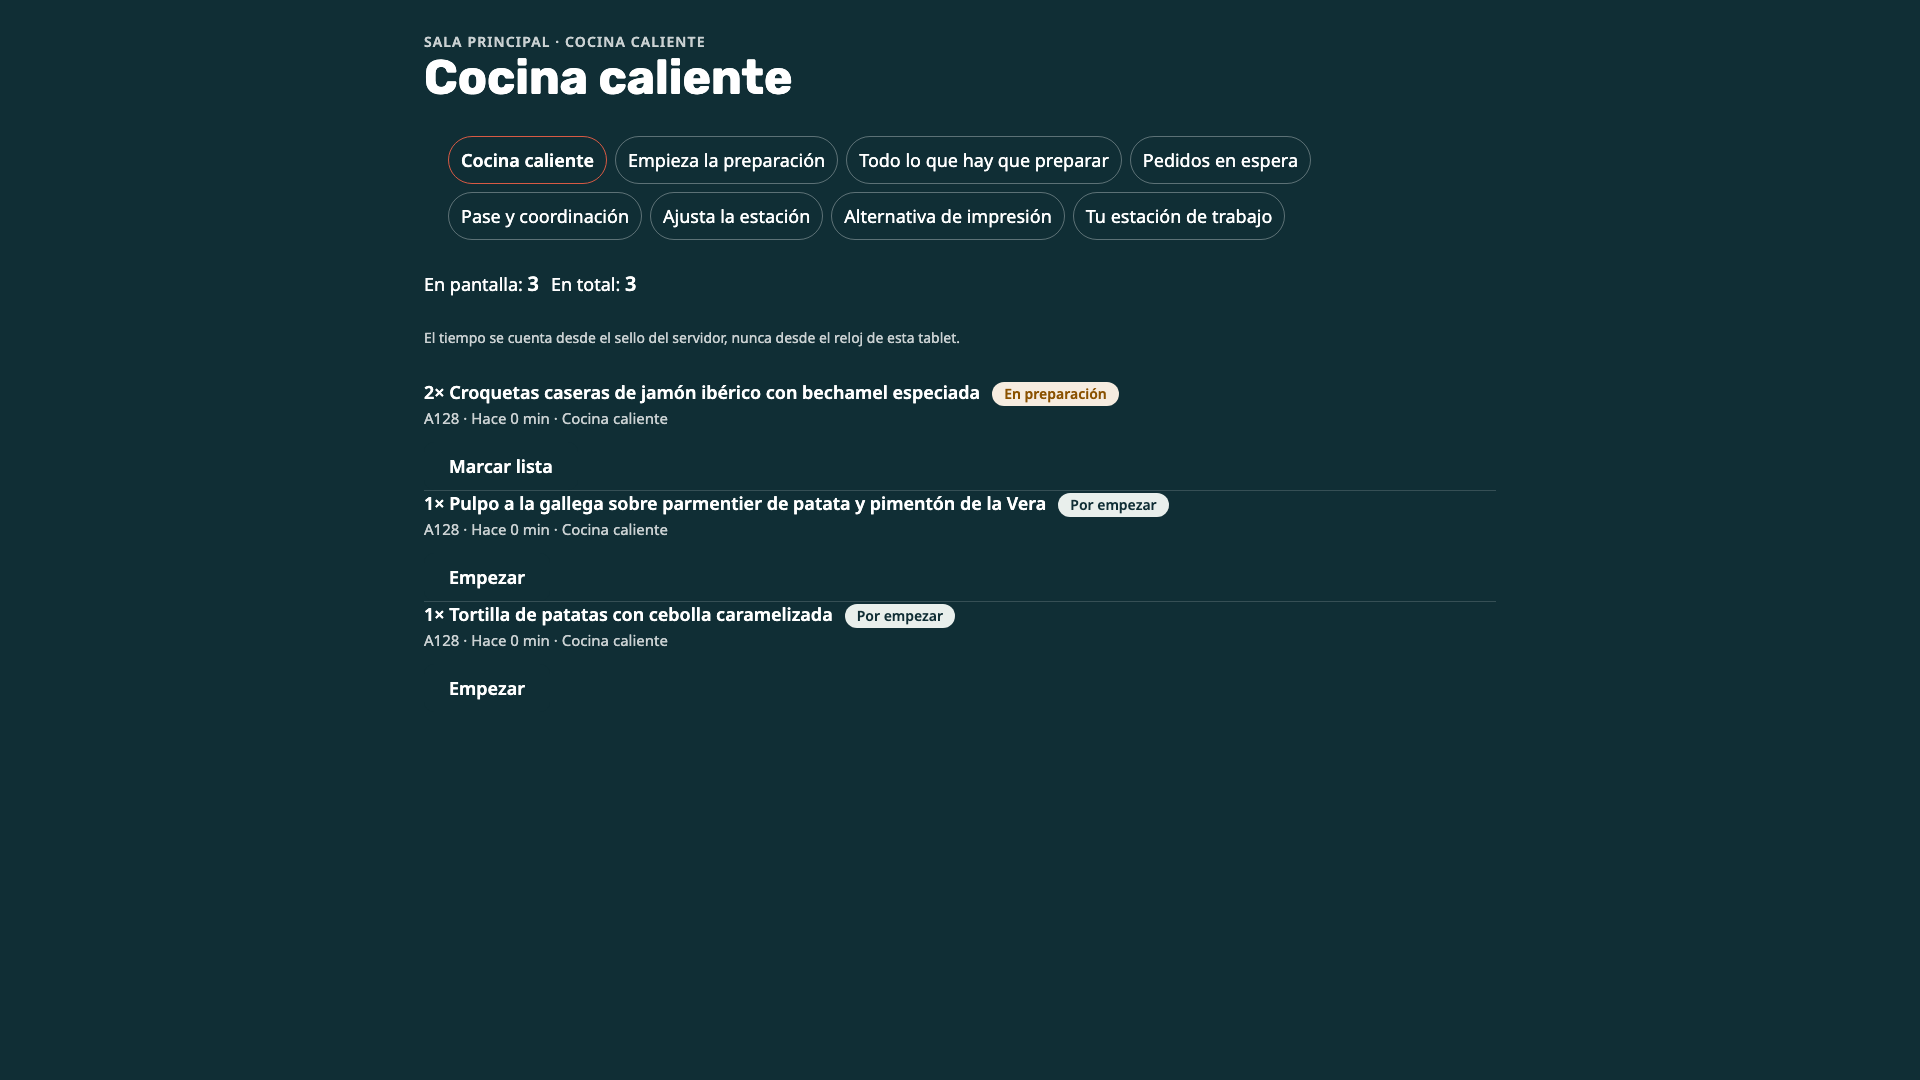
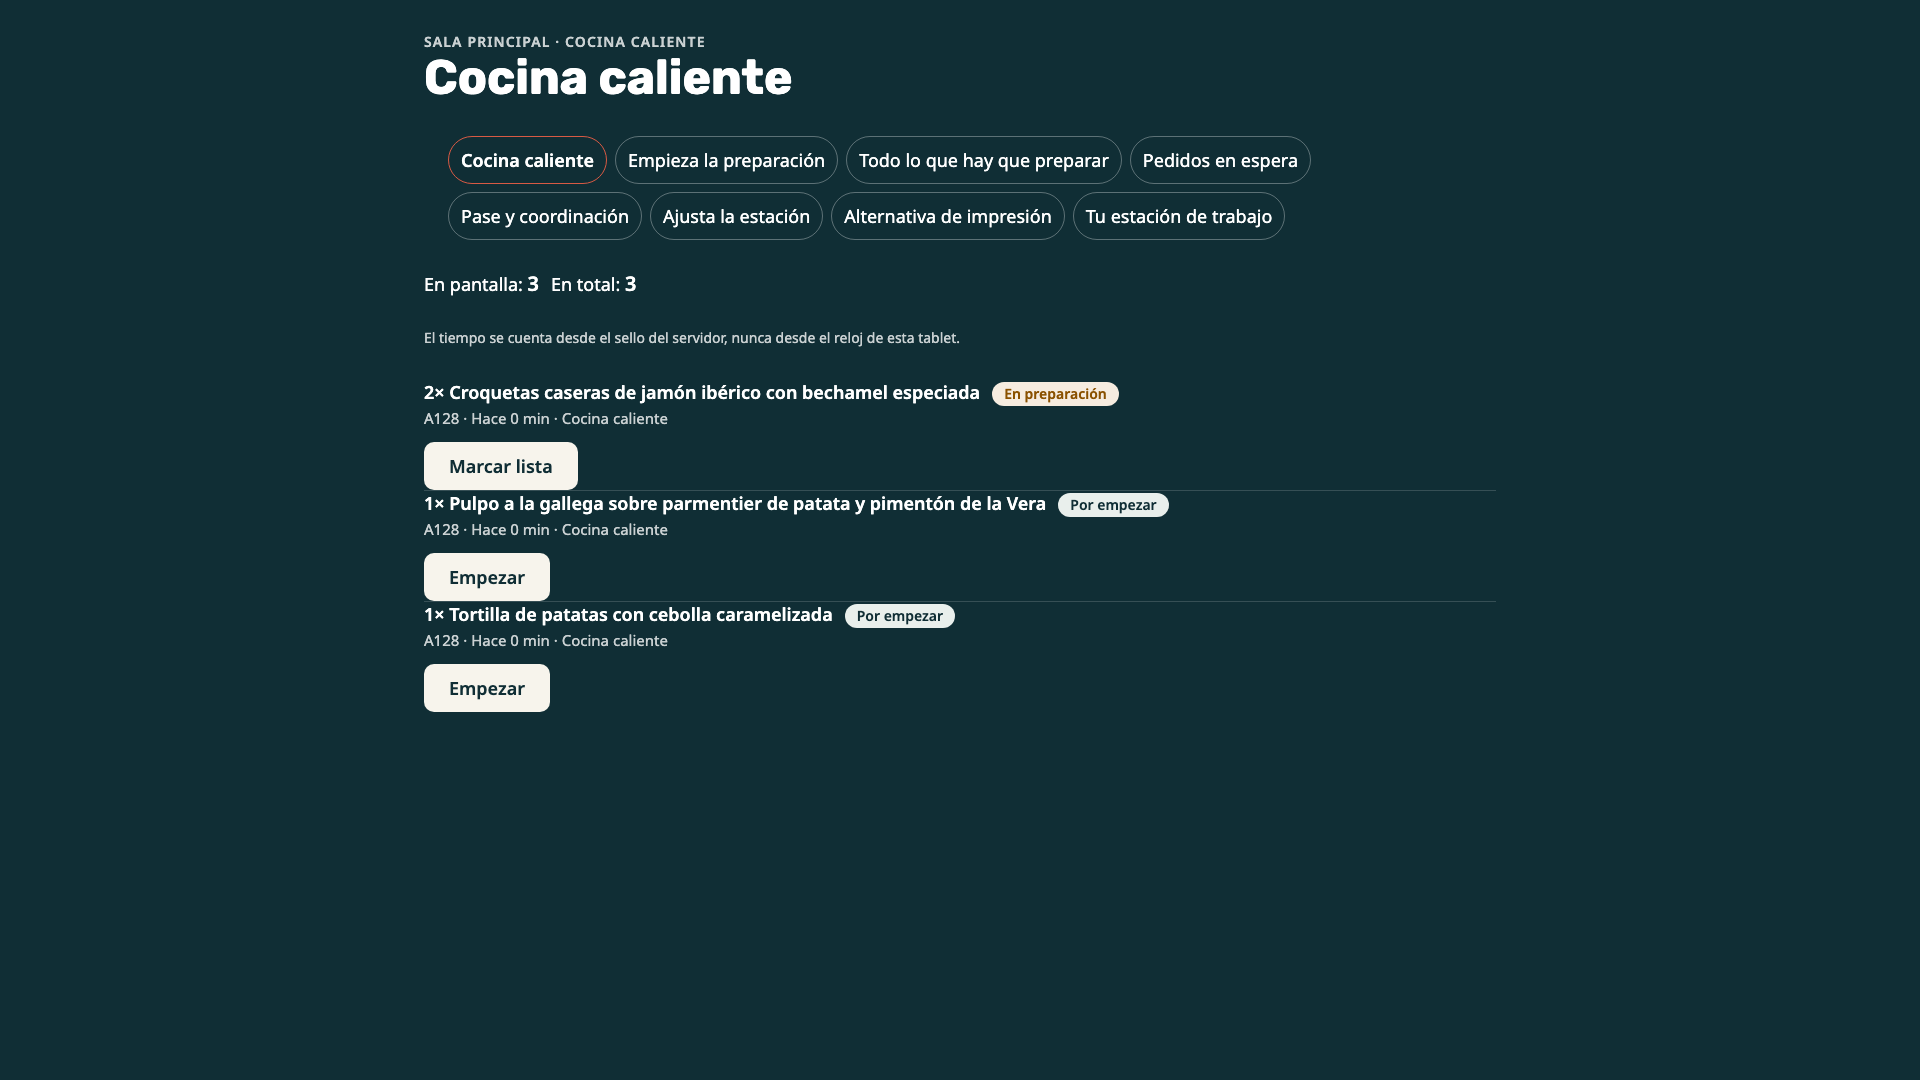
Auditoria (2): o botao invisivel do KDS, curado pela DOENCA e nao pelo sintoma
`--bo-primaria` e `--bo-superficie-inversa` sao ambas #102E35: o botao primario
dentro do `.bo-kds` tinha a cor do fundo. 1.00:1, na accao mais repetida da
cozinha.

## A doenca: o componente nao sabe em que superficie esta

Foi a terceira vez. As duas anteriores estao documentadas em 39 linhas de
`.bo-kds .x { … }` — uma lista de pares componente×superficie que cresce com
cada componente novo e que so se escreve DEPOIS de alguem dar pelo defeito. A
lista nao previne; regista.

A cura e a inversao: um CONTRATO DA SUPERFICIE. Em vez de o componente adivinhar
onde esta, a superficie DECLARA o que promete a quem for desenhado nela —
`--bo-accao`, `--bo-sobre-accao`, `--bo-sobre-superficie`. O componente pede o
PAPEL e recebe o valor certo por heranca, sem saber de superficies. Uma
superficie nova define os tres e ganha os componentes todos; um componente novo
pede os tres e ganha as superficies todas.

E a accao em fundo escuro fica CLARA e nao lima: o lima e o sinal de estado do
pedido, e um botao lima disputava atencao com ele — que e o que o manual proibe,
e e o assunto da tarefa (3).

  KDS antes:  fundo do botao #102E35 sobre #102E35 = 1.00:1
  KDS agora:  #F7F4EC sobre #102E35 = 13.05:1
  painel:     14.34:1, intacto

## E uma guarda, porque a lista nao previne

`scripts/validar-superficies.sh`: mede o RESULTADO em cada superficie — o que
esta desenhado distingue-se do que esta por tras? Quatro superficies, duas
escuras.
[…]

Changed region(s): [[0.2188, 0.4889, 0.3125, 0.5806], [0.2188, 0.3972, 0.3125, 0.4583], [0.2188, 0.6111, 0.3125, 0.6722]]

diff --git a/inspeccao/superficies.spec.ts b/inspeccao/superficies.spec.ts
@@ -1,0 +1,171 @@
+import { expect, test } from '@playwright/test';
+import { resolverAlvos } from './alvos.ts';
+
+/**
+ * Um componente claro dentro de uma superfície escura desaparece.
+ *
+ * ── A doença, três vezes ──────────────────────────────────────────────────
+ *
+ * 1.00:1 no E07, com um `var()` inexistente a pintar #102E35 sobre #102E35.
+ * 1.00:1 nas peças claras dentro do `.bo-kds`. E 1.00:1 no botão primário, que
+ * é a acção mais repetida da cozinha — `--bo-primaria` e
+ * `--bo-superficie-inversa` são a MESMA cor.
+ *
+ * As duas primeiras foram curadas com 39 linhas de `.bo-kds .x { … }`: uma lista
+ * de pares componente×superfície, escrita sempre DEPOIS de alguém dar pelo
+ * defeito. A terceira apareceu na mesma, porque a lista não previne — regista.
+ *
+ * ── O que esta prova mede ─────────────────────────────────────────────────
+ *
+ * Não mede classes. Mede o RESULTADO em cada superfície: o que está desenhado
+ * distingue-se do que está por trás? Um rácio de exactamente 1,00 quase nunca é
+ * uma medição — é uma cor consigo própria, e é a assinatura desta família.
+ */
+
+const MINIMO_TEXTO = 4.5; // WCAG 1.4.3
+const MINIMO_CAIXA = 3;   // WCAG 1.4.11, componentes
+
+/**
+ * Os contornos fracos já conhecidos. Tecto que só desce à mão.
+ *
+ * Esta prova encontrou uma quarta aparição da família, e maior do que a que me
+ * foi apontada: NOVE controlos cujo contorno não delimita. Os campos têm
+ * `--bo-borda: #D7DEDA`, que dá **1,29:1** contra o fundo da página onde a
+ * 1.4.11 pede 3:1; e o botão secundário tem preenchimento a **1,17:1** com
+ * `border: 1px solid transparent`. É defeito verdadeiro, escrito como
+ * RV100-025.
+ *
+ * Não o curo aqui e a razão importa: mudar `--bo-borda` muda TODOS os campos do
+ * produto, e um token de desenho global não é meu para decidir — foi-me pedido
+ * o botão do KDS. Fica contado, com o número certo, para não passar por
+ * ausência. Se aparecer um quinto, o tecto acende.
+ */
+const TECTO_CONTORNOS_FRACOS = 9;
+
+/** Os controlos cujo contorno já se sabe fraco: campos e botão secundário. */
+const CONTORNO_JA_CONHECIDO = /bo-campo__controlo|bo-botao--secundario|bo-botao bo-botao--s/;
+
+test.describe('Superfícies: nada desaparece dentro do seu fundo', () => {
+  test('texto e controlos distinguem-se do que está por trás', async ({ page }) => {
+    test.setTimeout(600_000);
+    const a = await resolverAlvos();
+    await page.setViewportSize({ width: 1440, height: 900 });
+
+    const superficies = [
+      { id: 'KDS-estacao', url: `/es-ES/kds/${a.unidadeDoStaff}/${a.estacaoDeProducao}`, escura: true },
+      { id: 'KDS-unidade', url: `/es-ES/kds/${a.unidadeDoStaff}`, escura: true },
+      { id: 'AUTH-login', url: '/es-ES/auth/login', escura: true },
+      { id: 'PAINEL-catalogo', url: '/es-ES/app/marina-oropesa/catalogo', escura: false },
+    ];
+
+    const maus: string[] = [];
+    let medidos = 0;
+
+    for (const s of superficies) {
+      const r = await page.goto(s.url, { waitUntil: 'domcontentloaded' });
+      expect(r?.status(), `POPULACAO-ZERO: ${s.id} devolveu ${r?.status()}`).toBe(200);
+      const achados = await page.evaluate(([minTexto, minCaixa]) => {
+        const lum = (c: string) => {
+          const p = (c.match(/rgba?\(([^)]+)\)/)?.[1] ?? '').split(',').map(parseFloat);
+          const f = (x: number) => { const s = x / 255; return s <= 0.03928 ? s / 12.92 : ((s + 0.055) / 1.055) ** 2.4; };
+          return 0.2126 * f(p[0] ?? 0) + 0.7152 * f(p[1] ?? 0) + 0.0722 * f(p[2] ?? 0);
+        };
+        const razao = (x: string, y: string) => {
+          const a = lum(x), b = lum(y);
+          return (Math.max(a, b) + 0.05) / (Math.min(a, b) + 0.05);
+        };
+        // Um fundo com alfa não é um fundo, é uma camada: sobe-se até ao
+        // primeiro OPACO, senão mede-se uma cor contra si própria.
+        const opaco = (el: HTMLElement | null): string => {
+          for (let n = el; n; n = n.parentElement) {
+            const c = getComputedStyle(n).backgroundColor;
+            if (c && !/rgba\(0, 0, 0, 0\)/.test(c) && !/,\s*0(\.\d+)?\)$/.test(c)) return c;
+          }
+          return getComputedStyle(document.body).backgroundColor;
+        };
+        const visivel = (el: HTMLElement) => {
+          if (el.closest('[aria-hidden="true"]')) return false;
+          const c = el.getBoundingClientRect();
+          if (c.width <= 1 || c.height <= 1) return false;
+          // Fora do ecrã não é visível. O `.bo-saltar` vive a `top: -100px` até
+          // receber foco, e a primeira versão acusou-o de ter 1,1:1 — medindo
+          // uma coisa que ninguém vê. É a mesma lição do texto só para leitores
+          // de ecrã, e é a segunda vez que a aprendo.
+          if (c.bottom < 0 || c.top > window.innerHeight) return false;
+          if (c.right < 0 || c.left > window.innerWidth) return false;
+          const s = getComputedStyle(el);
+          return s.visibility !== 'hidden' && s.opacity !== '0';
+        };
+        const saida: Array<{ o: string; q: string; r: number }> = [];
+
+        for (const el of Array.from(document.querySelectorAll<HTMLElement>('body *'))) {
+          if (!visivel(el)) continue;
+          const s = getComputedStyle(el);
+          // 1. Uma caixa preenchida tem de se distinguir do que está atrás.
+          const fundo = s.backgroundColor;
+          const preenchida = fundo && !/rgba\(0, 0, 0, 0\)/.test(fundo) && !/,\s*0(\.\d+)?\)$/.test(fundo);
+          if (preenchida) {
+            // ── O que conta é NADA o delimitar ────────────────────────────
+            //
+            // A primeira versão acusava qualquer caixa com fundo parecido com o
+            // de trás: 23 achados, e nenhum era o defeito. Um `div` de layout
+            // pinta a mesma cor do pai de propósito, e um `input` branco sobre
+            // creme distingue-se pela BORDA — que é o que delimita um campo.
+            //
+            // A assinatura desta família é outra: uma caixa preenchida que não
+            // se distingue do fundo E não tem borda, contorno nem sombra. Aí
+            // não há nada a dizer onde ela acaba, e foi isso que aconteceu ao
+            // botão do KDS.
+            // Uma borda TRANSPARENTE não delimita nada. A primeira versão
+            // olhava só para a largura, e o `.bo-botao` tem
+            // `border: 1px solid transparent` — foi essa linha que engoliu o
+            // defeito exacto para que esta prova foi escrita: o controlo
+            // negativo repôs o botão invisível e a guarda ficou verde.
+            const opacaEContrasta = (cor: string, atras: string) =>
+              !/rgba\(0, 0, 0, 0\)/.test(cor) && !/,\s*0(\.\d+)?\)$/.test(cor)
+              && razao(cor, atras) >= minCaixa;
+            const atrasDaCaixa = opaco(el.parentElement);
+            const temBorda = (parseFloat(s.borderTopWidth) > 0 || parseFloat(s.borderBottomWidth) > 0
+              || parseFloat(s.borderLeftWidth) > 0 || parseFloat(s.borderRightWidth) > 0)
+              && opacaEContrasta(s.borderTopColor, atrasDaCaixa);
+            const temContorno = s.outlineStyle !== 'none' && parseFloat(s.outlineWidth) > 0
+              && opacaEContrasta(s.outlineColor, atrasDaCaixa);
+            const temSombra = s.boxShadow !== 'none' && !/rgba\(0, 0, 0, 0\)/.test(s.boxShadow);
+            const delimitada = temBorda || temContorno || temSombra;
+            const interactiva = el.matches('button, a[href], input, select, textarea, [role="button"]');
+            const rr = razao(fundo, atrasDaCaixa);
+            if (!delimitada && interactiva && rr < minCaixa) {
+              saida.push({ o: `controlo sem contorno ${el.tagName}.${String(el.className).slice(0, 20)}`, q: `${fundo} sobre ${atrasDaCaixa}`, r: Number(rr.toFixed(2)) });
+            }
+          }
+          // 2. O texto tem de se distinguir do que está atrás DELE.
+          const texto = (el.textContent ?? '').trim();
+          if (el.children.length === 0 && texto.length > 0) {
+            const atras = opaco(el);
+            const rr = razao(s.color, atras);
+            if (rr < minTexto) saida.push({ o: `texto «${texto.slice(0, 18)}»`, q: `${s.color} sobre ${atras}`, r: Number(rr.toFixed(2)) });
+          }
+        }
+        return saida;
+      }, [MINIMO_TEXTO, MINIMO_CAIXA] as [number, number]);
+
+      medidos += 1;
+      for (const x of achados) maus.push(`${s.id} · ${x.o} · ${x.q} = ${x.r}:1`);
+    }
+
+    // Os contornos fracos contam-se à parte: são um defeito conhecido e
+    // declarado, e misturá-los com o resto fazia a guarda nascer vermelha por
+    // uma razão que não é a dela — e uma guarda assim ensina a ser ignorada.
+    const contornos = maus.filter((m) => CONTORNO_JA_CONHECIDO.test(m));
+    const outros = maus.filter((m) => !CONTORNO_JA_CONHECIDO.test(m));
+
+    console.log(`AMBITO superficies=${superficies.length} medidas=${medidos} maus=${outros.length}`
+      + ` contornosFracos=${contornos.length} tecto=${TECTO_CONTORNOS_FRACOS}`);
+    for (const c of contornos.slice(0, 4)) console.log(`CONTORNO-FRACO ${c}`);
+
+    expect(contornos.length, `contornos fracos subiram para ${contornos.length} (tecto ${TECTO_CONTORNOS_FRACOS}) — RV100-025`)
+      .toBeLessThanOrEqual(TECTO_CONTORNOS_FRACOS);
+    expect(medidos, 'POPULACAO-ZERO: nenhuma superfície foi medida').toBe(superficies.length);
+    expect(outros, `há coisas a desaparecer dentro do seu fundo:\n${outros.slice(0, 12).join('\n')}`).toEqual([]);
+  });
+});

diff --git a/packages/ui/src/estilos.css b/packages/ui/src/estilos.css
@@ -29,6 +29,29 @@
   --bo-texto-primario: #102E35;
   --bo-texto-secundario: #51666A;
   --bo-texto-inverso: #FFFFFF;
+
+  /* ── O CONTRATO DA SUPERFÍCIE ─────────────────────────────────────────────
+   *
+   * A doença, e é a terceira vez que aparece: um componente escrito para fundo
+   * claro pinta `--bo-primaria` e, dentro do `.bo-kds` — que é
+   * `--bo-superficie-inversa`, a MESMA cor #102E35 —, fica invisível. Deu
+   * 1.00:1 no E07 com um `var()` inexistente, 1.00:1 nas peças claras do KDS, e
+   * agora no botão primário, que é a acção mais repetida da cozinha.
+   *
+   * A cura até aqui foram 39 linhas de `.bo-kds .x { … }`: uma lista de pares
+   * componente×superfície que cresce com cada componente novo, e que só se
+   * escreve DEPOIS de alguém dar pelo defeito.
+   *
+   * Isto é a inversão. Em vez de o componente adivinhar onde está, a superfície
+   * DECLARA o que promete a quem for desenhado em cima dela. O componente pede
+   * o papel — «a cor de uma acção», «o que se lê sobre uma acção» — e recebe o
+   * valor certo por herança de CSS, sem saber de superfícies nenhumas.
+   *
+   * Uma superfície nova define os três e ganha os componentes todos. Um
+   * componente novo pede os três e ganha as superfícies todas. */
+  --bo-sobre-superficie: var(--bo-texto-primario);
+  --bo-accao: var(--bo-primaria);
+  --bo-sobre-accao: var(--bo-texto-inverso);
   --bo-borda: #D7DEDA;
 
   /* ── Estados operacionais — FIXOS, não seguem o tema do cliente ────────── */
@@ -130,6 +153,18 @@ p { margin: 0; }
   border-radius: var(--bo-raio-controlo);
 }
 
+/* ── As superfícies escuras cumprem o contrato ───────────────────────────────
+ *
+ * A acção passa a ser CLARA sobre o escuro, e não lima: o lima é o sinal de
+ * ESTADO do pedido, e um botão lima do tamanho de um botão disputava atenção
+ * com ele — que é textualmente o que o manual proíbe. Uma acção não precisa de
+ * cor de marca para se ver; precisa de contraste. */
+.bo-inverso, .bo-kds {
+  --bo-sobre-superficie: var(--bo-texto-inverso);
+  --bo-accao: var(--bo-superficie-base);
+  --bo-sobre-accao: var(--bo-primaria);
+}
+
 /* Sobre superfície escura o anel escuro desaparece. */
 .bo-inverso :where(a, button, input, select, textarea, [tabindex]):focus-visible {
   outline-color: var(--bo-realce);
@@ -197,8 +232,11 @@ p { margin: 0; }
 .bo-botao--operacao { min-height: var(--bo-toque-operacao); min-width: var(--bo-toque-operacao); font-size: 18px; }
 .bo-botao--largo { width: 100%; }
 
-.bo-botao--primario { background: var(--bo-primaria); color: var(--bo-texto-inverso); }
-.bo-botao--primario:hover:not(:disabled) { background: #17414b; }
+/* Pede o PAPEL e não a cor: `--bo-accao` é o que a superfície actual diz ser
+   uma acção. Em fundo claro continua a ser o #102E35 de sempre; em fundo escuro
+   passa a ser claro, porque lá o #102E35 é o próprio fundo. */
+.bo-botao--primario { background: var(--bo-accao); color: var(--bo-sobre-accao); }
+.bo-botao--primario:hover:not(:disabled) { filter: brightness(1.12); }
 
 .bo-botao--secundario { background: var(--bo-superficie-suave); color: var(--bo-texto-primario); }
 .bo-botao--secundario:hover:not(:disabled) { background: #dbe5e0; }

diff --git a/playwright.config.ts b/playwright.config.ts
@@ -69,7 +69,7 @@ export default defineConfig({
     {
       name: 'chromium',
       use: { ...devices['Desktop Chrome'] },
-      testIgnore: [/autenticar\.setup\.ts/, /painel\.spec\.ts/, /isolamento\.spec\.ts/, /tema\.spec\.ts/, /sala\.spec\.ts/, /pedidos\.spec\.ts/, /staff\.spec\.ts/, /staff-telas\.spec\.ts/, /kds\.spec\.ts/, /visitante\.spec\.ts/, /reservas\.spec\.ts/, /host\.spec\.ts/, /mensagens\.spec\.ts/, /levar\.spec\.ts/, /tpv\.spec\.ts/, /portas\.spec\.ts/, /pagamentos\.spec\.ts/, /fiscal\.spec\.ts/, /stock\.spec\.ts/, /compras\.spec\.ts/, /crm\.spec\.ts/, /ponto\.spec\.ts/, /financeiro\.spec\.ts/, /analitica\.spec\.ts/, /kiosk\.spec\.ts/, /integracoes\.spec\.ts/, /plataforma\.spec\.ts/, /expansao\.spec\.ts/, /alcance\.spec\.ts/, /id-de-rota\.spec\.ts/, /tipografia-minima\.spec\.ts/, /foco\.spec\.ts/],
+      testIgnore: [/autenticar\.setup\.ts/, /painel\.spec\.ts/, /isolamento\.spec\.ts/, /tema\.spec\.ts/, /sala\.spec\.ts/, /pedidos\.spec\.ts/, /staff\.spec\.ts/, /staff-telas\.spec\.ts/, /kds\.spec\.ts/, /visitante\.spec\.ts/, /reservas\.spec\.ts/, /host\.spec\.ts/, /mensagens\.spec\.ts/, /levar\.spec\.ts/, /tpv\.spec\.ts/, /portas\.spec\.ts/, /pagamentos\.spec\.ts/, /fiscal\.spec\.ts/, /stock\.spec\.ts/, /compras\.spec\.ts/, /crm\.spec\.ts/, /ponto\.spec\.ts/, /financeiro\.spec\.ts/, /analitica\.spec\.ts/, /kiosk\.spec\.ts/, /integracoes\.spec\.ts/, /plataforma\.spec\.ts/, /expansao\.spec\.ts/, /alcance\.spec\.ts/, /id-de-rota\.spec\.ts/, /tipografia-minima\.spec\.ts/, /superficies\.spec\.ts/, /foco\.spec\.ts/],
       dependencies: ['preparar'],
     },
     {
@@ -78,7 +78,7 @@ export default defineConfig({
       // pedir, e a de B para o par que dá sentido à recusa.
       // E o tema do E12 pela mesma razão: precisa da sessão de A para a recusa
       // e da de B para o par — e é em B, que é Pro, que existem cores próprias.
-      testMatch: [/painel\.spec\.ts/, /isolamento\.spec\.ts/, /tema\.spec\.ts/, /sala\.spec\.ts/, /pedidos\.spec\.ts/, /staff\.spec\.ts/, /staff-telas\.spec\.ts/, /kds\.spec\.ts/, /visitante\.spec\.ts/, /reservas\.spec\.ts/, /host\.spec\.ts/, /mensagens\.spec\.ts/, /levar\.spec\.ts/, /tpv\.spec\.ts/, /portas\.spec\.ts/, /pagamentos\.spec\.ts/, /fiscal\.spec\.ts/, /stock\.spec\.ts/, /compras\.spec\.ts/, /crm\.spec\.ts/, /ponto\.spec\.ts/, /financeiro\.spec\.ts/, /analitica\.spec\.ts/, /kiosk\.spec\.ts/, /integracoes\.spec\.ts/, /plataforma\.spec\.ts/, /expansao\.spec\.ts/, /alcance\.spec\.ts/, /id-de-rota\.spec\.ts/, /tipografia-minima\.spec\.ts/, /foco\.spec\.ts/],
+      testMatch: [/painel\.spec\.ts/, /isolamento\.spec\.ts/, /tema\.spec\.ts/, /sala\.spec\.ts/, /pedidos\.spec\.ts/, /staff\.spec\.ts/, /staff-telas\.spec\.ts/, /kds\.spec\.ts/, /visitante\.spec\.ts/, /reservas\.spec\.ts/, /host\.spec\.ts/, /mensagens\.spec\.ts/, /levar\.spec\.ts/, /tpv\.spec\.ts/, /portas\.spec\.ts/, /pagamentos\.spec\.ts/, /fiscal\.spec\.ts/, /stock\.spec\.ts/, /compras\.spec\.ts/, /crm\.spec\.ts/, /ponto\.spec\.ts/, /financeiro\.spec\.ts/, /analitica\.spec\.ts/, /kiosk\.spec\.ts/, /integracoes\.spec\.ts/, /plataforma\.spec\.ts/, /expansao\.spec\.ts/, /alcance\.spec\.ts/, /id-de-rota\.spec\.ts/, /tipografia-minima\.spec\.ts/, /superficies\.spec\.ts/, /foco\.spec\.ts/],
       use: { ...devices['Desktop Chrome'], storageState: FICHEIRO_DE_SESSAO },
       dependencies: ['preparar'],
     },

diff --git a/docs/visual/rv100/2026-09-06_e953a87/11_OPEN_FINDINGS.md b/docs/visual/rv100/2026-09-06_e953a87/11_OPEN_FINDINGS.md
@@ -400,3 +400,33 @@ status: NAO REPRODUZIDO, com causa identificada pelo revisor a 07/09 — o eleme
 > lista era feita por TAMANHO, que mistura o controlo autónomo com a ligação em
 > prosa que a 2.5.5 isenta. Classificados por natureza no DOM: **1 controlo
 > autónomo, 0 em prosa**. O achado é real e é um, e a inflação era minha.
+
+---
+
+```yaml
+id: RV100-025
+severity: P2
+surface: transversal — painel, login e qualquer superfície com formulário
+screen_or_route: /[idioma]/auth/login e /[idioma]/app/[orgSlug]/catalogo (medidos); a classe é do produto
+summary: nove controlos têm contorno que não delimita — abaixo de 3:1 contra o que está por trás
+impact: acessibilidade — WCAG 2.2, 1.4.11 (Non-text Contrast)
+expected: o limite de um controlo distingue-se do que o rodeia a >= 3:1, por preenchimento OU por borda visível
+observed: >
+  Campos (`.bo-campo__controlo`): fundo branco sobre a página creme dá 1,10:1, e a
+  borda é `--bo-borda: #D7DEDA` = 1,29:1 contra a página. Botão secundário
+  (`.bo-botao--secundario`): preenchimento a 1,17:1 sobre branco, com
+  `border: 1px solid transparent` — uma borda transparente não delimita nada.
+  Nove ocorrências em duas superfícies medidas; a causa é de token e não de tela.
+evidence: scripts/validar-superficies.sh (linhas CONTORNO-FRACO no âmbito) · inspeccao/superficies.spec.ts
+fix_criteria: >
+  Subir `--bo-borda` até >= 3:1 contra `--bo-superficie-base`, ou dar borda
+  visível ao botão secundário. Medir no navegador nas duas superfícies, não no
+  token: o mesmo valor dá rácios diferentes sobre a página e sobre um cartão.
+decisao: nao-decidida
+status: open — MEDIDO E POR CORRIGIR, com tecto de 9 na guarda. Não o curei ao curar o botão do KDS por uma razão que fica escrita: mudar `--bo-borda` muda TODOS os campos do produto, e um token de desenho global não é do implementador
+```
+
+> **Como apareceu.** A guarda escrita para o botão invisível do KDS — o terceiro
+> caso de «uma coisa desaparece dentro do seu fundo» — encontrou a quarta
+> aparição sozinha, e maior do que a que me tinha sido apontada. É o que uma
+> guarda faz e uma lista de remendos não: a lista regista o que alguém já viu.
